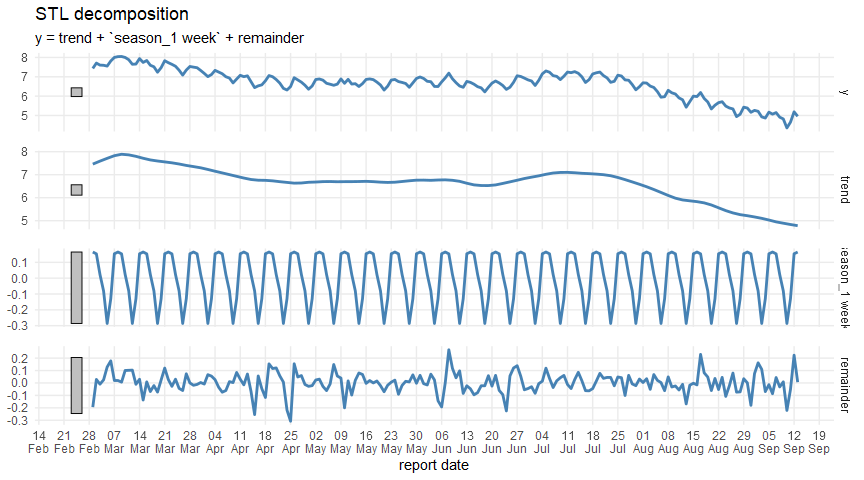
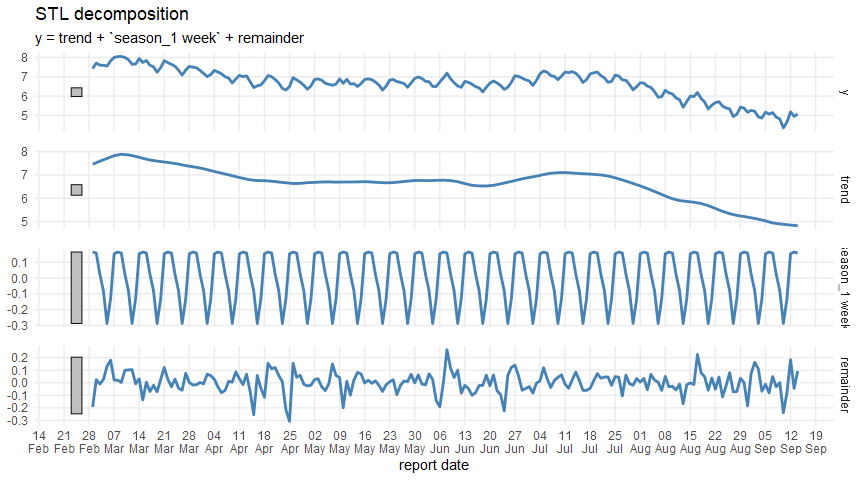
Attempt 20220915

diff --git a/covid-post-peak-analysis.md b/covid-post-peak-analysis.md
@@ -34,7 +34,7 @@ cases_df <- read_csv(case_data_url) %>%
   clean_names()
 ```
 
-    ## Rows: 1763728 Columns: 7
+    ## Rows: 1765314 Columns: 7
     ## ── Column specification ────────────────────────────────────────────────────────
     ## Delimiter: ","
     ## chr  (5): Case Status, Sex, Age group, DHB, Overseas travel
@@ -51,7 +51,7 @@ cases_by_dhb_df <- cases_df %>%
   count(report_date, dhb, case_status)
 ```
 
-## Wellington figures up to 13 Sep 2022
+## Wellington figures up to 14 Sep 2022
 
 Including Hutt and Wairarapa as well as CCDHB.
 
@@ -174,8 +174,8 @@ maxima <- dhb_cases_after_transform_stl_df %>%
 Looking at raw case numbers, the peak on 9 Mar 2022 was about 40.7 times
 the lowest recent value.
 
-But when adjusting for the weekly pattern, it was 28.3 times the lowest
-recent adjusted value, and the trend was about 22.5 times the lowest
+But when adjusting for the weekly pattern, it was 28.2 times the lowest
+recent adjusted value, and the trend was about 21.6 times the lowest
 recent trend line.
 
 While the trend might be over-smoothed, the peak coincinded with the
